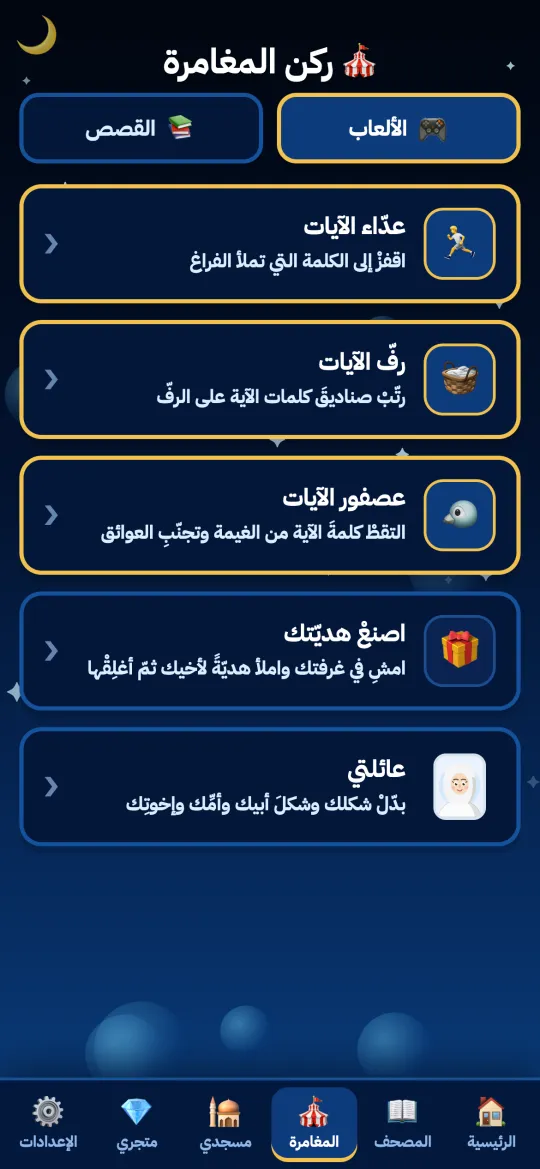
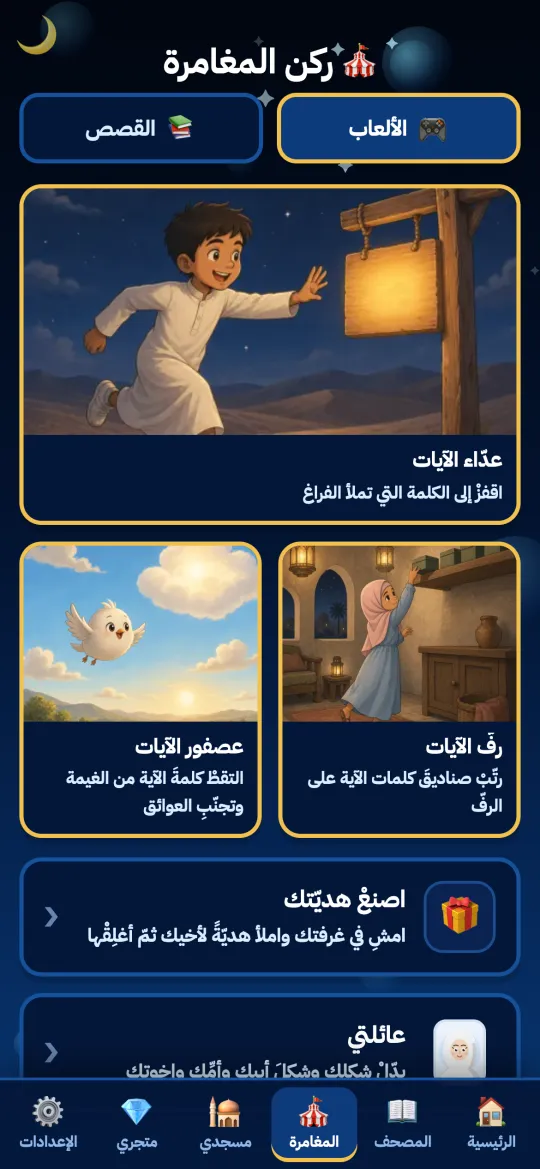
🎨 قسمُ الألعاب على هيئة قسم القصص: أغلفةُ الألعاب الثلاث المرسومة مربّعاتٍ بحجم مربّعات القصص، وهاتفٌ بقائمة الألعاب الجديدة، وهاتفُ القصص بقائمتها الملوّنة — والهاتفُ يتبادل الجهتين على طول الصفحة

diff --git a/index.html b/index.html
@@ -135,13 +135,9 @@ h2{font-size:clamp(26px,4.2vw,38px);color:#fff}
 .step .n{display:inline-grid;place-items:center;width:28px;height:28px;border-radius:50%;
   background:var(--gold);color:#0a1f45;font-weight:700;font-size:14px;margin-bottom:6px}
 
-.games{display:grid;grid-template-columns:repeat(3,1fr);gap:22px;margin:56px 0 0}
-.games figure{margin:0;text-align:center}
-.games img{width:100%;height:auto;aspect-ratio:3/4;object-fit:cover;object-position:top;border-radius:22px;border:3px solid #ffffff22;box-shadow:0 18px 40px -16px #000a}
-.games figcaption{font-size:17px;font-weight:700;color:#fff;margin-top:10px}
 /* القصص */
 .tales{display:grid;grid-template-columns:repeat(3,1fr);gap:14px;margin-top:26px;max-width:480px}
-.tales img{width:100%;aspect-ratio:1;border-radius:18px;border:3px solid #ffffff22;object-fit:cover}
+.tales img{width:100%;height:auto;aspect-ratio:1;border-radius:18px;border:3px solid #ffffff22;object-fit:cover}
 
 /* اللغات */
 .langs{display:flex;flex-wrap:wrap;justify-content:center;gap:10px;margin:30px auto 0;max-width:820px;padding:0;list-style:none}
@@ -201,8 +197,6 @@ html:is([lang=tr],[lang=bn],[lang=ha],[lang=uz]) body{font-family:system-ui,-app
   .lpick{max-width:140px}
   .store{flex:1 1 100%;justify-content:center}
   .step .phone{max-width:150px}
-  .games{display:flex;overflow-x:auto;margin:40px -16px 0;padding:0 16px 8px;gap:14px;scrollbar-width:none}
-  .games figure{flex:none;width:230px}
   .tales{display:flex;overflow-x:auto;max-width:none;margin-inline:-16px;padding:0 16px 6px;scrollbar-width:none}
   .tales img{width:120px;flex:none}
   .trust div{padding:16px 10px}
@@ -262,7 +256,7 @@ html:is([lang=tr],[lang=bn],[lang=ha],[lang=uz]) body{font-family:system-ui,-app
 
 <section class="sky">
   <div class="wrap">
-    <div class="row">
+    <div class="row flip">
       <div class="txt">
         <div class="kick" data-t="adv_k">مغامرةٌ لا حصّة</div>
         <h2 data-t="adv_h">كلُّ آيةٍ تحفظها تبني شيئاً</h2>
@@ -272,16 +266,16 @@ html:is([lang=tr],[lang=bn],[lang=ha],[lang=uz]) body{font-family:system-ui,-app
           <li><i>🎮</i><span data-t="f3">ركن المغامرة: ألعابٌ من آياتك تكافئك على ما حفظت</span></li>
           <li><i>💎</i><span data-t="f4">جواهر وشارات، وشهادة إتمامٍ تشاركها أهلك</span></li>
         </ul>
+        <div class="tales games">
+          <img src="img/g-runner.webp" alt="" loading="lazy" width="400" height="400">
+          <img src="img/g-shelf.webp" alt="" loading="lazy" width="400" height="400">
+          <img src="img/g-bird.webp" alt="" loading="lazy" width="400" height="400">
+        </div>
       </div>
-      <div class="phone"><img src="img/6-build.webp" data-shot="6-build" alt="" loading="lazy" width="540" height="1169"></div>
-    </div>
-    <div class="games">
-      <figure><img src="img/g-runner.webp" data-gshot="runner" alt="" loading="lazy" width="540" height="723"><figcaption data-t="gm_runner">عدّاء الآيات</figcaption></figure>
-      <figure><img src="img/g-shelf.webp" data-gshot="shelf" alt="" loading="lazy" width="540" height="723"><figcaption data-t="gm_shelf">رفّ الآيات</figcaption></figure>
-      <figure><img src="img/g-bird.webp" data-gshot="bird" alt="" loading="lazy" width="540" height="723"><figcaption data-t="gm_bird">عصفور الآيات</figcaption></figure>
+      <div class="phone"><img src="img/2-games.webp" data-shot="2-games" alt="" loading="lazy" width="540" height="1169"></div>
     </div>
 
-    <div class="row flip">
+    <div class="row">
       <div class="txt">
         <div class="kick" data-t="st_k">قصصٌ مصوّرة</div>
         <h2 data-t="st_h">حكاياتٌ تُفتح لك في الطريق</h2>
@@ -295,14 +289,14 @@ html:is([lang=tr],[lang=bn],[lang=ha],[lang=uz]) body{font-family:system-ui,-app
           <img src="img/s-asir.webp" alt="" loading="lazy" width="200" height="200">
         </div>
       </div>
-      <div class="phone"><img src="img/2-games.webp" data-shot="2-games" alt="" loading="lazy" width="540" height="1169"></div>
+      <div class="phone"><img src="img/st-list.webp" data-shot="st-list" alt="" loading="lazy" width="540" height="1169"></div>
     </div>
   </div>
 </section>
 
 <section>
   <div class="wrap">
-    <div class="row">
+    <div class="row flip">
       <div class="txt">
         <div class="kick" data-t="fam_k">للبيت كلّه</div>
         <h2 data-t="fam_h">يتنافسون في الخير</h2>
@@ -391,8 +385,7 @@ if(D){
   document.title = D.title || document.title;
   if(D.desc) document.querySelector('meta[name=description]').content = D.desc;
   /* لقطاتُ التطبيق بلغته */
-  document.querySelectorAll('[data-shot]').forEach(function(img){ img.src='img/'+LANG+'/'+img.getAttribute('data-shot')+'.webp'; });
-  document.querySelectorAll('[data-gshot]').forEach(function(img){ var ar=img.src; img.onerror=function(){ img.onerror=null; img.src=ar; }; img.src='img/'+LANG+'/g-'+img.getAttribute('data-gshot')+'.webp'; });   /* لغةٌ لم تُلتقط ألعابُها بعد: العربيّة */
+  document.querySelectorAll('[data-shot]').forEach(function(img){ var ar=img.src; img.onerror=function(){ img.onerror=null; img.src=ar; }; img.src='img/'+LANG+'/'+img.getAttribute('data-shot')+'.webp'; });   /* لقطةٌ لم تُلتقط بلغته بعد: العربيّة */
   if(D.mean){ var m=document.querySelector('[data-mean]'); m.textContent=D.mean; m.hidden=false; }
   var DIG = RTL[LANG] ? '۰۱۲۳۴۵۶۷۸۹' : '0123456789';
   document.querySelectorAll('.step .n').forEach(function(n,i){ n.textContent=DIG[i+1]; });
